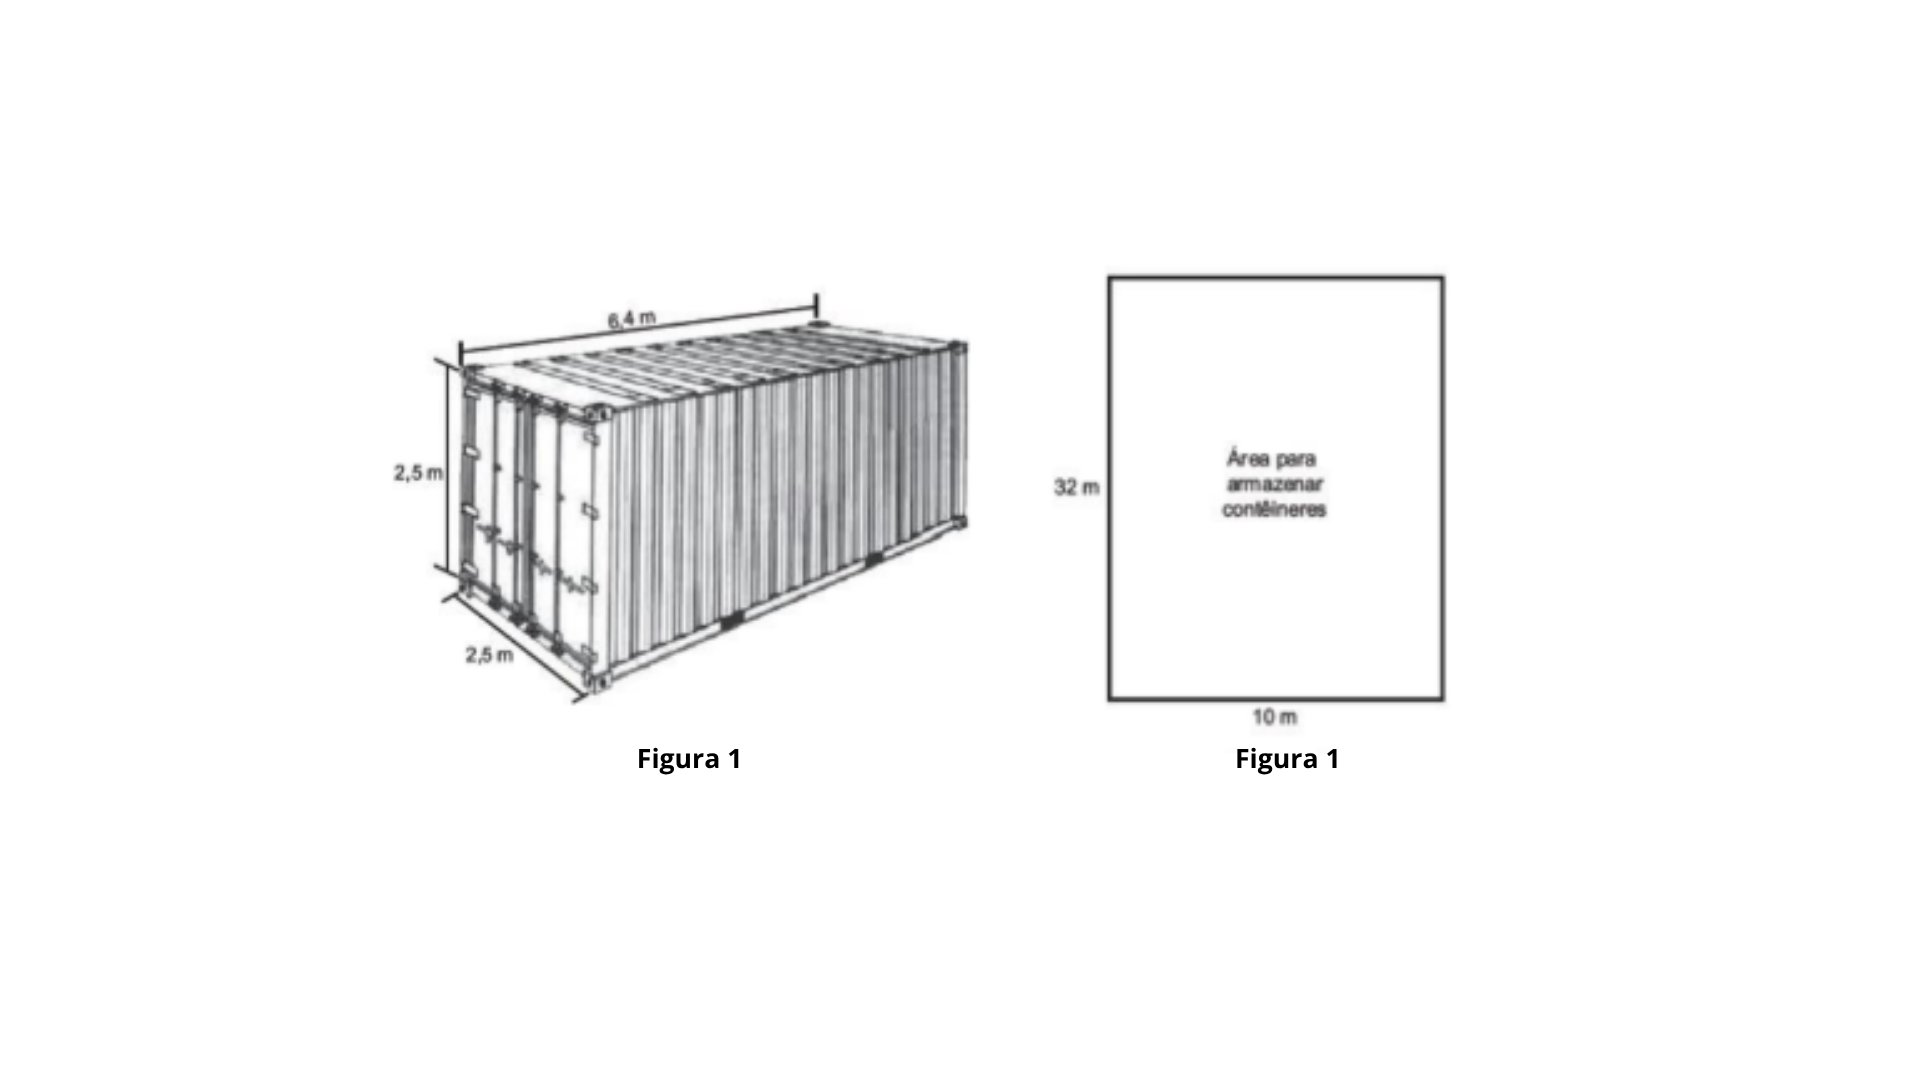
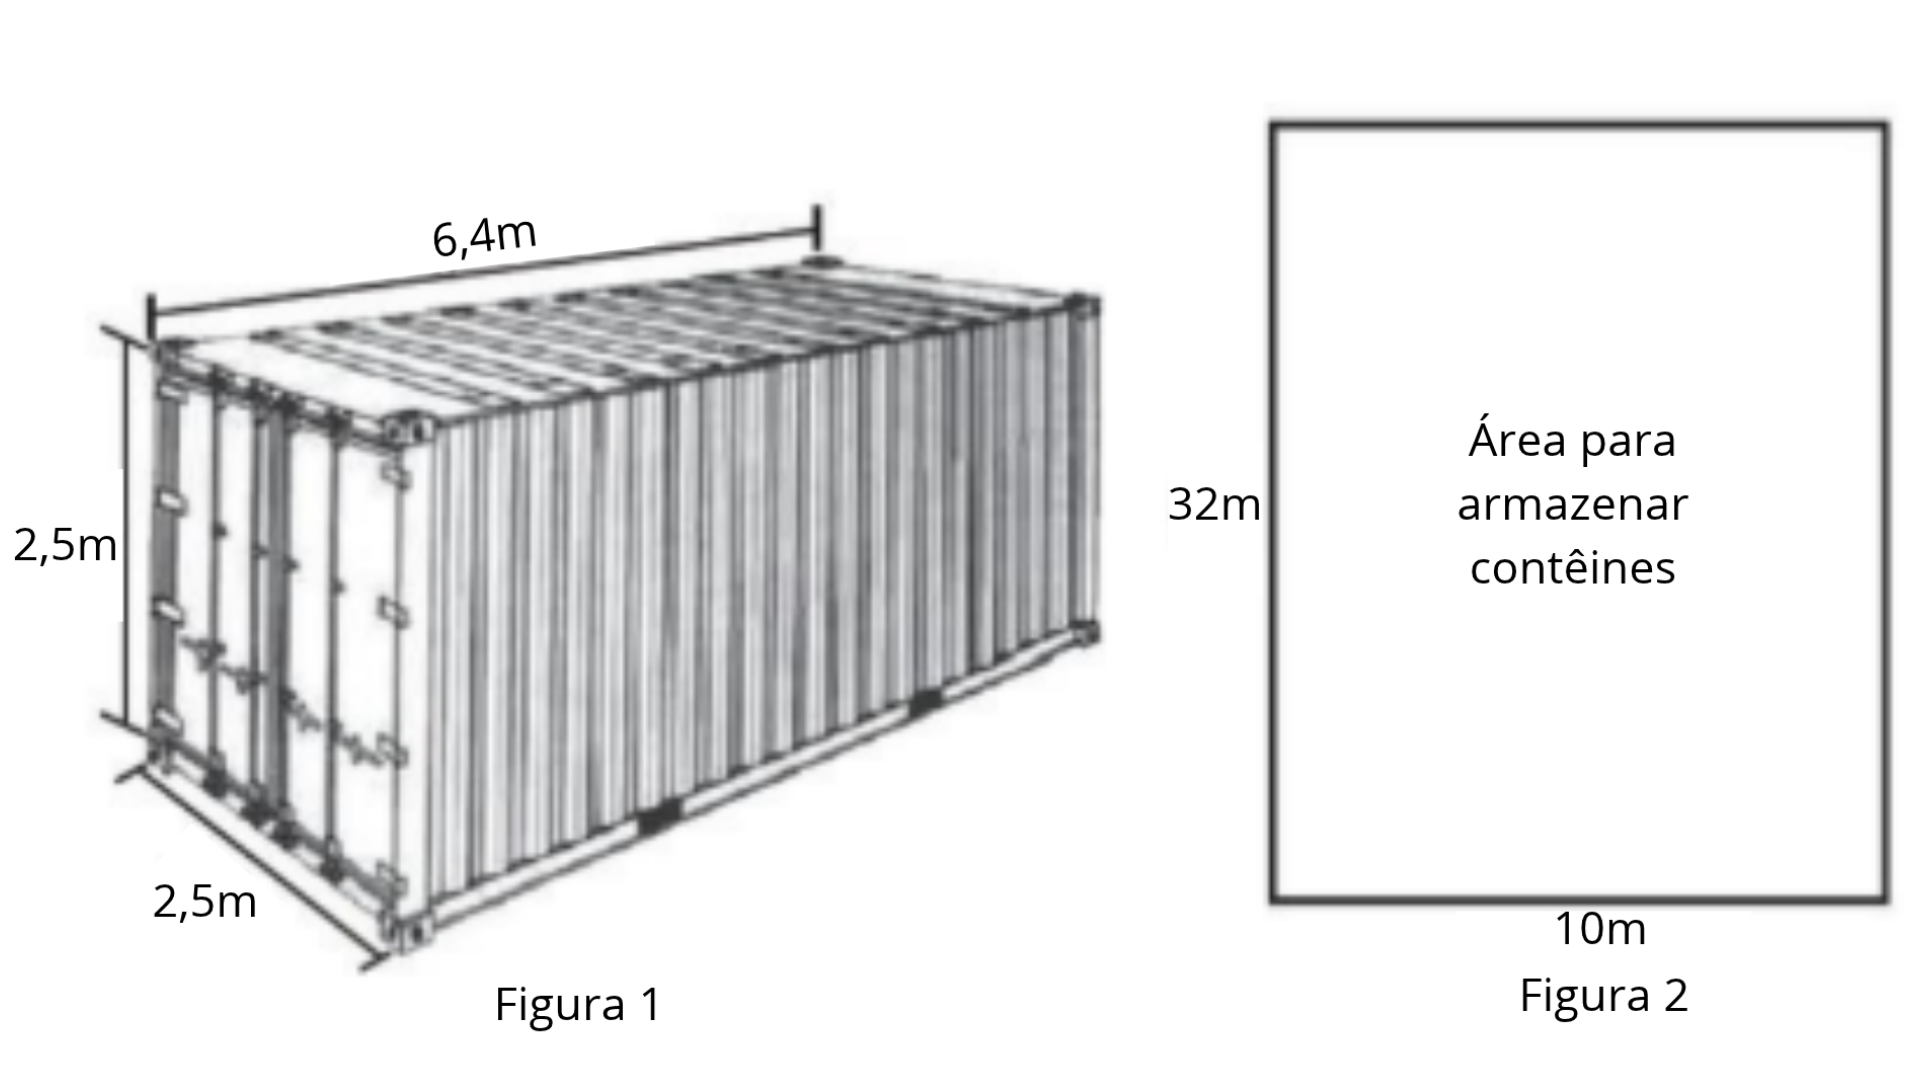
porcentagem

diff --git a/javaScript/quiz/porcentagem.js b/javaScript/quiz/porcentagem.js
@@ -7,7 +7,9 @@ const perguntas = [
         pergunta: "Qual é o valor percentual que faz essa representação?",
         opcoes: ["80%", "8%", "0,8%", "0,08%", "0,008%"],
         correta: "80%",
-        explicacao: ""
+        explicacao: "Para resolvermos esta questão, basta dividir 8 por 10, que resulta em 0,8 depois\
+         multiplicamos por 100 (andar a vírgula duas casas para direita) resultando na nossa resposta → 80%\
+         <p style=' color:green;'> Resposta = 80% </p>"
     },
     {
         id: "porcentagem-2",
@@ -18,29 +20,47 @@ const perguntas = [
         número de trabalhadores que terá que assinar carteira profissional é",
         opcoes: ["270 mil", "720 mil", "810 mil", "1,08 milhão", "1,35 milhão"],
         correta: "1,08 milhão",
-        explicacao: ""
+        explicacao: "Para transformar uma porcentagem em número decimal, dividimos seu valor por 100. <br>\
+        Por exemplo, 30 dividido por 100 resulta em 0,3. Já para transformar um número decimal em porcentagem, multiplicamos seu valor por 100.<br>\
+        Sabendo disso, 60% é a mesma coisa que 0,6 agora basta multiplicar pela quantidade de funcionários.\
+        Como a quantidade total de trabalhadores é de 1,8 milhões, basta multiplicar esse valor por 0,6, que representa os 60% de trabalhadores informais.  \
+        \\(1,8 \\times 0,6\\) = 1,08 milhões. <br>\
+        <p style=' color:green;'> Resposta = 1,08 milhões</p>  \
+        "
     },
     {
         id: "porcentagem-3",
         informacoes: "(ENEM 2011) O salário-mínimo ― menor salário que um trabalhador pode receber ― é estabelecido por\
         lei e reavaliado todos os anos com base no custo de vida da população.",
-        img:"../../imagens/porcentagem/q3-porcentagem.png",
+        img: "../../imagens/porcentagem/q3-porcentagem.png",
         pergunta: "Que número inteiro representa, o valor mais aproximado do aumento sofrido pelo salário-mínimo, de 1994 a 2008, em pontos percentuais?",
         opcoes: ["14", "38", "67", "265", "493"],
         correta: "493",
-        explicacao: ""
+        explicacao: "Para descobrirmos qual foi o aumento percentual do salário mínimo, precisamos primeiro calcular a diferença entre o salário de 2008 e o de 1994.\
+        \\[415 - 70 = 345\\]  \
+        Agora dividimos o aumento pelo valor inicial, que era R$70, para descobrir quanto esse aumento representa proporcionalmente ao salário de 1994. \
+        \\[345/70 \\approx 4,929 \\] agora multiplicamos por 100 ficando 492,9%\
+        A alternativa mais próxima é 493, que representa o aumento percentual aproximado do salário mínimo no período.\
+        <p style=' color:green;'> Resposta 493% </p>\
+        "
     },
     {
         id: "porcentagem-8",
         informacoes: "(ENEM 2010) Os dados do gráfico seguinte foram gerados a\
         partir de dados colhidos no conjunto de seis regiões metropolitanas pelo Departamento\
         Intersindical de Estatística e Estudos Socioeconômicos (Dieese).",
-        img:"../../imagens/porcentagem/q8-porcentagem.png",
+        img: "../../imagens/porcentagem/q8-porcentagem.png",
         pergunta: "Supondo que o total de pessoas pesquisadas na região metropolitana de Porto Alegre equivale a\
         250 000, o número de desempregados em março de 2010, nessa região, foi de",
         opcoes: ["24 500", "25 000", "220 500", "223 000", "227 500"],
         correta: "24 500",
-        explicacao: ""
+        explicacao: "Nessa questão temos que descobrir supondo que a quantidade de entrevistados seja 250.000 pessoas, qual é a quantidade de desempregados.<br> \
+        Analisando o gráfico, podemos perceber que os valores estão em “taxas” ou no caso em porcentagem, primeiro vamos dividir o valor por cem, para depois multiplicar pela quantidade de pessoas.\
+        \\[9,8/100 = 0,098\\] \
+        Como estamos procurando a quantidade de desempregados, devemos multiplicar a taxa de desemprego pelo total de pessoas pesquisadas, então multiplicando pelo número de pessoas fica:\
+        \\[250.000 \\times 0,098 = 24.500 \\] \
+        <p style=' color:green;'>Resposta → 24.500 pessoas </p>\
+        "
     },
     {
         id: "porcentagem-9",
@@ -53,19 +73,32 @@ const perguntas = [
         pergunta: "De acordo com esse sistema de controle de qualidade, o desempenho financeiro dessa empresa no ano de 2009 deve ser considerado ",
         opcoes: ["insuficiente", "regular", "bom", "ótimo", "excelente"],
         correta: "bom",
-        explicacao: ""
+        explicacao: "Para descobrirmos a resposta desta questão, devemos subtrair o valor obtido em 2009 pelo valor de 2008, então:\
+        \\[145.000 - 132.000 = 13000\\]\
+        agora dividimos 13000 por 132000, para descobrirmos qual foi o valor do aumento em porcentagem:\
+        \\[13000/132000 = 0.098\\]\
+        agora multiplicamos por 100 para deixar em valor percentual, ficando: 9,8% <br>\
+        agora olhamos para os conceitos e vemos onde o 9,8% está, ficando no conceito “bom”\
+        <p style=' color:green;'>Resposta → “bom” </p>\
+        "
     },
     {
         id: "porcentagem-10",
         informacoes: "(ENEM 2011) Uma enquete, realizada em março de 2010, perguntava aos internautas se eles acreditavam\
         que as atividades humanas provocam o aquecimento global. Eram três as alternativas\
         possíveis e 279 internautas responderam à enquete, como mostra o gráfico.",
-        img:"../../imagens/porcentagem/q10-porcentagem.png",
+        img: "../../imagens/porcentagem/q10-porcentagem.png",
         pergunta: "Analisando os dados do gráfico, quantos internautas responderam 'NÃO' à enquete?",
         opcoes: ["Menos de 23.", "Mais de 23 e menos de 25.", "Mais de 50 e menos de 75.",
         "Mais de 100 e menos de 190.", "Mais de 200."],
         correta: "Mais de 50 e menos de 75.",
-        explicacao: ""
+        explicacao: "Como esta questão que apenas quem marcou “não” nas pesquisas, multiplicamos \
+        o número de participantes pelo valor em porcentagem marcaram não nas pesquisas, ficando:\
+        \\[ 25\\% / 100 = 0,25 \\]\
+        \\[0,25 \\times 279 = 69,75\\]\
+        olhando nas opções temos nossa resposta que é\
+        <p style=' color:green;'>Resposta = Mais de 50 e menos de 75 </p>\
+        "
     },
     {
         id: "porcentagem-11",
@@ -75,13 +108,21 @@ const perguntas = [
         pergunta: "A quantia inicial que essa pessoa aplicou em ações corresponde ao valor de",
         opcoes: ["R$ 4 222,22", "R$ 4 523,80", "R$ 5 000,00", "R$ 13 300,00", "R$ 17 100,00"],
         correta: "R$ 5 000,00",
-        explicacao: ""
+        explicacao: "De acordo com a questão ele perde 30% do valor total que ele tinha investido sobrando 70%,\
+         logo em seguida ele recupera 20% de 30% então fazemos:\
+        \\[20\\% / 100 = 0,2\\] \\[30\\% / 100 = 0,3\\]\
+        \\[ 0,2 \\times 0,3 = 0,06\\]\
+        Onde 0,06 é 6%, agora somamos com 70% ficando 76%, agora dividimos 3800 que foi o montante que ele sacou por 76%, ficando:\
+        \\[76\\% / 100 = 0,76\\]\
+        \\[ 3800 / 0,76 = 5000\\]\
+        <p style=' color:green;'>Resposta = 5000</p>\
+        "
     },
     {
         id: "porcentagem-13",
         informacoes: "(ENEM 2012) Um laboratório realiza exames em que é possível observar a taxa de glicose de uma pessoa. \
         Os resultados são analisados de acordo com o quadro a seguir.",
-        img:"../../imagens/porcentagem/q13-porcentagem.png",
+        img: "../../imagens/porcentagem/q13-porcentagem.png",
         pergunta: "Um paciente fez um exame de glicose nesse\
         laboratório e comprovou que estava com hiperglicemia. Sua taxa de glicose era de 300\
         mg/dL. Seu médico prescreveu um tratamento em duas etapas. Na primeira etapa ele conseguiu\
@@ -89,17 +130,39 @@ const perguntas = [
         Ao calcular sua taxa de glicose após as duas reduções, o paciente verificou que estava na categoria de",
         opcoes: ["hipoglicemia", "normal", "pré-diabetes", "diabetes melito", "hiperglicemia"],
         correta: "diabetes melito",
-        explicacao: ""
+        explicacao: "Analisando os dados da questão, temos 300mg/dL da taxa de glicose, 30% de redução no primeiro tratamento e 10% no segunda tratamento. <br>\
+        primeiro vamos descobrir o quanto diminuiu no primeiro tratamento, fazemos 300 vezes 30% ou nesse caso 0,3, logo:\
+        \\[ 30\\%/ 100 = 0,3\\]\
+        \\[ 300 \\times 0,3 = 90\\]\
+        agora subtraímos:\
+        \\[ 300 - 90 = 210 \\]\
+        Achamos a quantidade de glicose que ele ficou após o primeiro tratamento, agora vamos para o segundo que ele perdeu 10%:\
+        \\[ 210 \\times 0,1 = 21 \\]\
+        subtraindo:\
+        \\[ 210 - 21 = 189\\]\
+        Agora verificamos em qual grupo ele ficou tendo 189mg/dL de glicose, ficando no grupo “diabetes melito”, pois está dentro do intervalo 125 mg/dL a 250 mg/dL da tabela \
+        <p style=' color:green;'>Resposta = diabetes melito</p>\
+        "
     },
     {
         id: "porcentagem-15",
         informacoes: "(ENEM 2013) Observe no gráfico alguns dados a respeito da produção e do destino do lixo no Brasil no ano de 2010.",
-        img:"../../imagens/porcentagem/q15-porcentagem.png",
+        img: "../../imagens/porcentagem/q15-porcentagem.png",
         pergunta: "A partir desses dados, supondo que todo o lixo brasileiro, com exceção dos recicláveis, é\
-destinado aos aterros ou aos lixões, quantos milhões de toneladas de lixo vão para os lixões?",
+        destinado aos aterros ou aos lixões, quantos milhões de toneladas de lixo vão para os lixões?",
         opcoes: ["5,9", "7,6", "10,9", "42,7", "76,8"],
         correta: "7,6",
-        explicacao: ""
+        explicacao: "Observando o gráfico e o'que a questão pede, podemos perceber o seguinte.<br>\
+        Temos 61 milhões de lixo, dentre eles temos 30% recicláveis, 54% matéria orgânica e \
+        16% outros rejeitos, e de acordo com o outro gráfico os detritos vão 24% para aterro sem controle, 58% para aterros sanitários e 18% para lixão.<br>\
+        De acordo com o comando da questão queremos apenas a porcentagem da matéria orgânica e outros rejeitos, e depois descobrir a quantidade que vai para o lixão.\
+        Primeiro, vamos somar as porcentagens da matéria orgânica e outros rejeitos, \\( 54\\% + 16\\% = 70\\%\\), multiplicamos pela quantidade de lixo.\
+        \\[61 \\times 0,7\\ = 42,7\\]\
+        agora pela porcentagem que vai para o lixão:\
+        \\[42,7 \\times 0,18\\ = 7,686\\]\
+        que corresponde aproximadamente a 7,6 milhões \
+        <p style=' color:green;'>Resposta = 7,6 milhões</p>\
+        "
     },
     {
         id: "porcentagem-16",
@@ -112,15 +175,18 @@ destinado aos aterros ou aos lixões, quantos milhões de toneladas de lixo vão
         loja, a economia adicional que obteria ao efetuar a compra, em reais, seria de",
         opcoes: ["15,00", "14,00", "10,00", "5,00", "4,00"],
         correta: "4,00",
-        explicacao: ""
+        explicacao: "Para esta questão temos que primeiramente descobrir quanto está o preço atual do produto que antes da remarcação de 20% que custava R$50,00, então:\
+        \\[ 20/ 100 = 0,2\\]\
+        \\[0,2 \\times 50 = 10\\]\
+        descobrimos o valor do desconto,agora subtraímos pelo preço antes da remarcação:\
+        \\[ 50 - 10 = 40\\]\
+        De acordo com a questão queremos saber o quanto ele iria economizar se tivesse o cartão fidelidade que tem 10% de desconto, então:\
+        \\[ 10/100 = 0,1\\]\
+        \\[ 40 \\times 0,1 = 4\\]\
+        <p style=' color:green;'>Resposta = 4</p>\
+        "
     },
-
-
 ]
-
-
-
-
 
 
 
